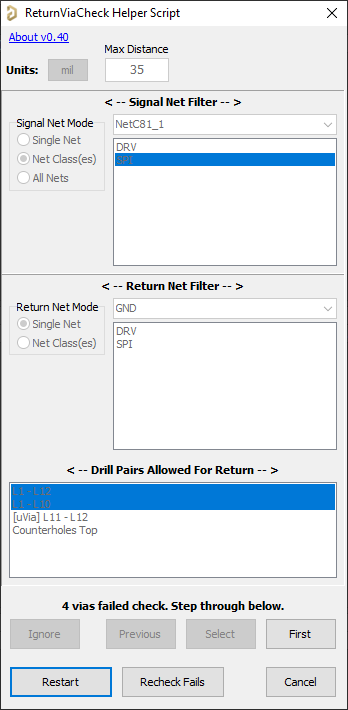
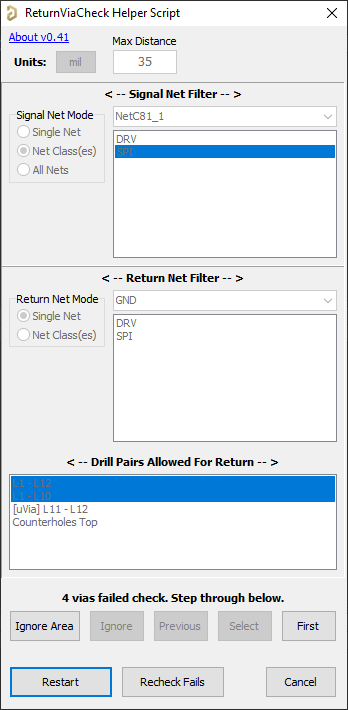
ReturnViaCheck v0.41 adds ignore area button (#175)
* Updated ReturnViaCheck_GUI.png

* Update ReturnViaCheck.pas
- Added support for ignoring all failed vias touching an area

* Update ReturnViaCheck.dfm
- added Ignore Area button

* Update README.md

diff --git a/Scripts - PCB/ReturnViaCheck/README.md b/Scripts - PCB/ReturnViaCheck/README.md
@@ -30,6 +30,10 @@ Script will detect if this is not the case.
 ## Features
 ### Recall Previous Selections
 When GUI is launched, selections from previous check will be restored. Net/Class/Drill Pair names must match exactly else defaults will be used. Works best between checks on the same board.
+### Filter Signal & Return Vias
+- Filter signal vias by net or net class
+- Filter return vias by net or net class
+- Filter return vias by Drill Pair
 
 ### Eligible Objects
 Vias
@@ -46,6 +50,7 @@ Vias
 - 2023-11-30 by Ryan Rutledge : v0.30 - added ability to select drill pairs other than full-stack
 - 2023-12-01 by Ryan Rutledge : v0.31 - "Recheck Fails" re-selects and zooms all failed vias; harmonized messages and selection behavior between "check all" and "recheck failed"; minor UX tweaks
 - 2023-12-04 by Ryan Rutledge : v0.40 - recall selections from previous check when launching script, added progress indicators
+- 2023-12-05 by Ryan Rutledge : v0.41 - added button to ignore all failed vias touching an area
 
 # INITIAL REQUIREMENTS SPEC
 ## Non-Modal GUI
@@ -54,26 +59,29 @@ Vias
 - [x] If any eligible return via exists within range, via passes check
 - [x] If no eligible return via exists within range, add signal via to a list of vias that failed check
 - [x] Support either metric or imperial units
-## Drop-Down to filter signal vias by Specific Net, Net Class, or All Nets
+## Other potential filter criteria? - SUBMIT AN ISSUE if you strongly want one of these
+- [ ] Filter by min >< max via hole size?
+- [ ] Filter signal via by separate drill pair list?
+- [ ] Filter by what the via is connected to (track/pad/region)?
+- [ ] Filter by hole type (via/pad)?
+## Filter vias by Specific Net, Net Class, or All Nets
+- [x] Options to signal return vias by All Nets, Specific Net, or Net Class
+- [x] Options to filter return vias by Specific Net or by Net Class (not all nets)
+- [x] Option to filter return vias by Drill Pair
 - [x] Multiselection only for net classes because of likelihood of huge count of individual nets
 - [x] Selected return nets are ignored
 - [ ] Ignore any vias without a trace wired up to them?
   - [ ] return vias can have traces wired up to them
   - [ ] vias of both types could have vias in pad without any traces wired
 - [ ] should through-hole pads be considered? I'm leaning toward no but maybe this has value?
-## Drop-Down to filter return vias by Specific Net or by Net Class
-- [ ] Should through-hole pads of a suitable net be considered? I'm leaning toward no. User can ignore if desired.
 ## Issues to do with stackups and drill pairs
 - [ ] Return vias need to *actually* span the relevant reference plane layers
-
   - [ ] Without getting into actual impedance structure definition, there are some corner cases to watch out for
   - [ ] For an internal signal trace, return via should span layers adjacent to signal layers
   - [ ] If reference planes are not on adjacent layers it may accept a via that doesn't span both reference planes
   - [ ] contrived example: for a SIG1 <> SIG3 route in a SIG1-GND1-SIG2-SIG3-GND2-SIG4 stackup, a SIG1-SIG3 GND via is insufficient because it does not connect GND1 to GND2
   - [ ] another scenario: stackup above has GND1-GND2 buried via
   - [ ] Do we need to enumerate layers and allow tagging layers as GND references?
-- [x] Much simpler implementation would be to only consider full-stack vias as eligible return vias
-  - [x] Allow user to manually select other allowed drill pairs
   - [ ] For complex stackups, only considering full-stack vias could raise false positives (reinforces need for ability to ignore/waive detected failures)
 ## Dedicated list of nets to exclude?
 - [ ] Same potential multiselection problem as above (would probably only make sense to allow selecting net classes to excludes)
